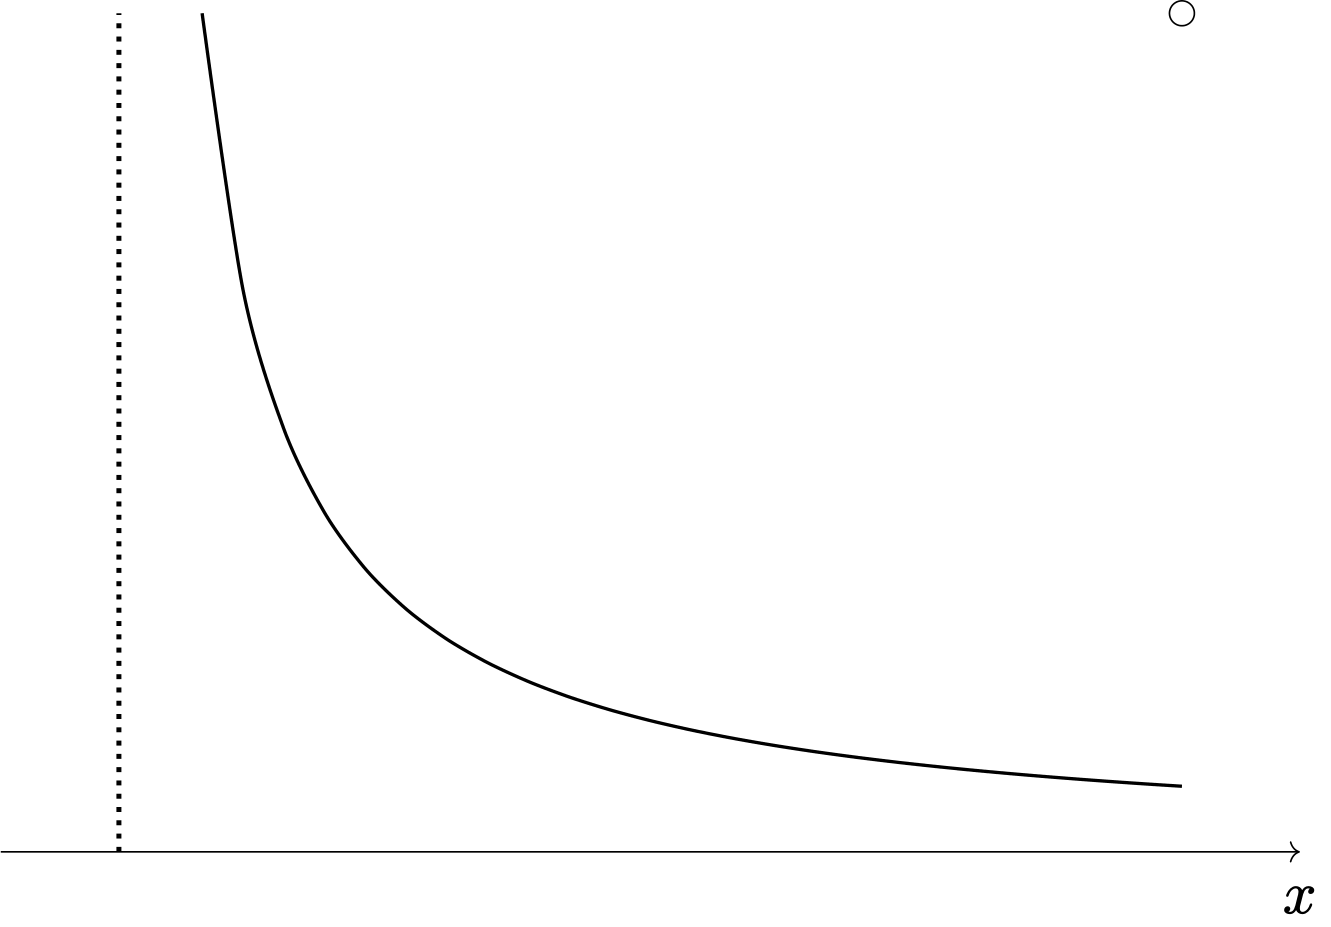
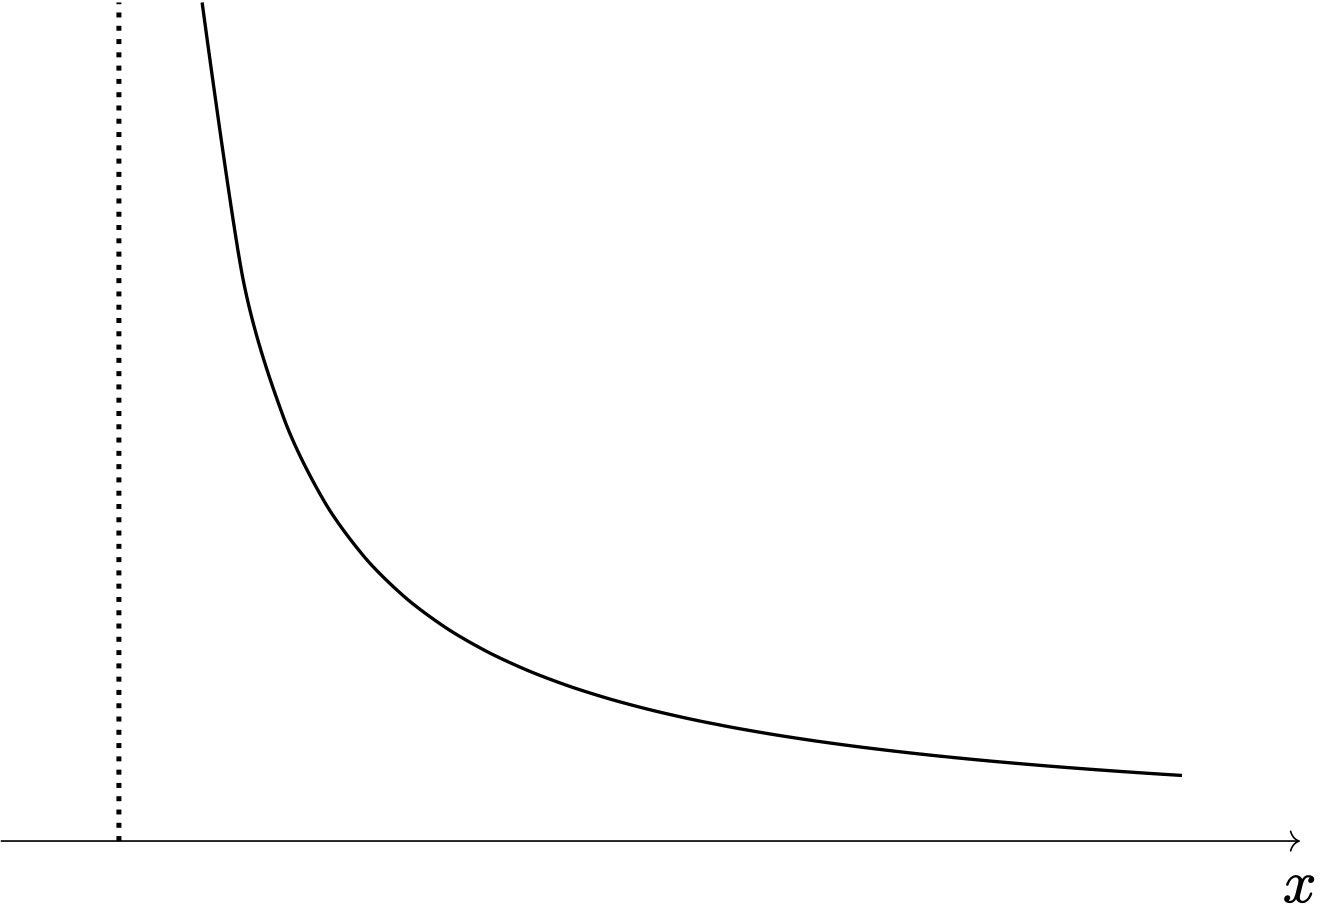
remove unnecessary circle

diff --git a/20240927_ConvexIsNotContinuous/figs/closed_interval_inf.tex b/20240927_ConvexIsNotContinuous/figs/closed_interval_inf.tex
@@ -1,3 +1,5 @@
+%!LW recipe=uplatex
+
 \documentclass[dvipdfmx]{standalone}
 
 \usepackage{animate}
@@ -112,7 +114,6 @@
 
 \begin{tikzpicture}
   \def\f(#1){0.2*#1*#1 + 0.6*#1 + 1.5}
-  \draw[fill=white] (4, {\f(4)}) circle (3pt);
 
   \def\g(#1){5/(5+#1)}
 
